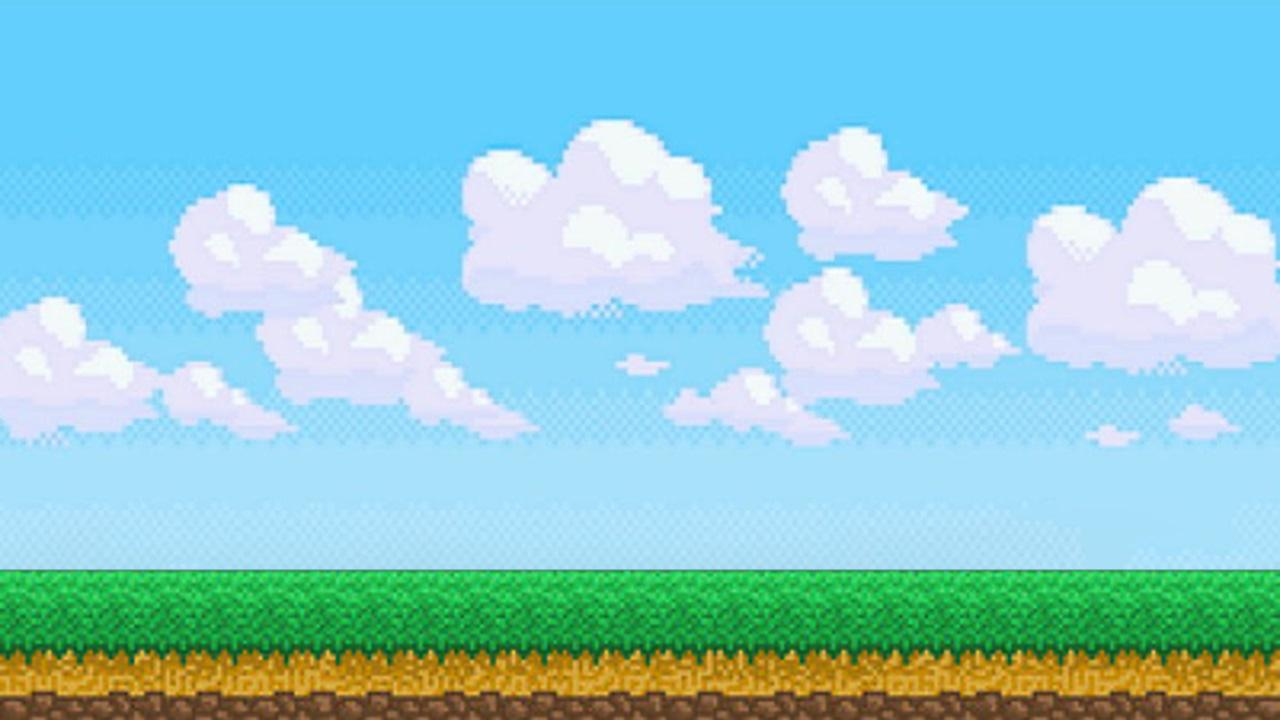
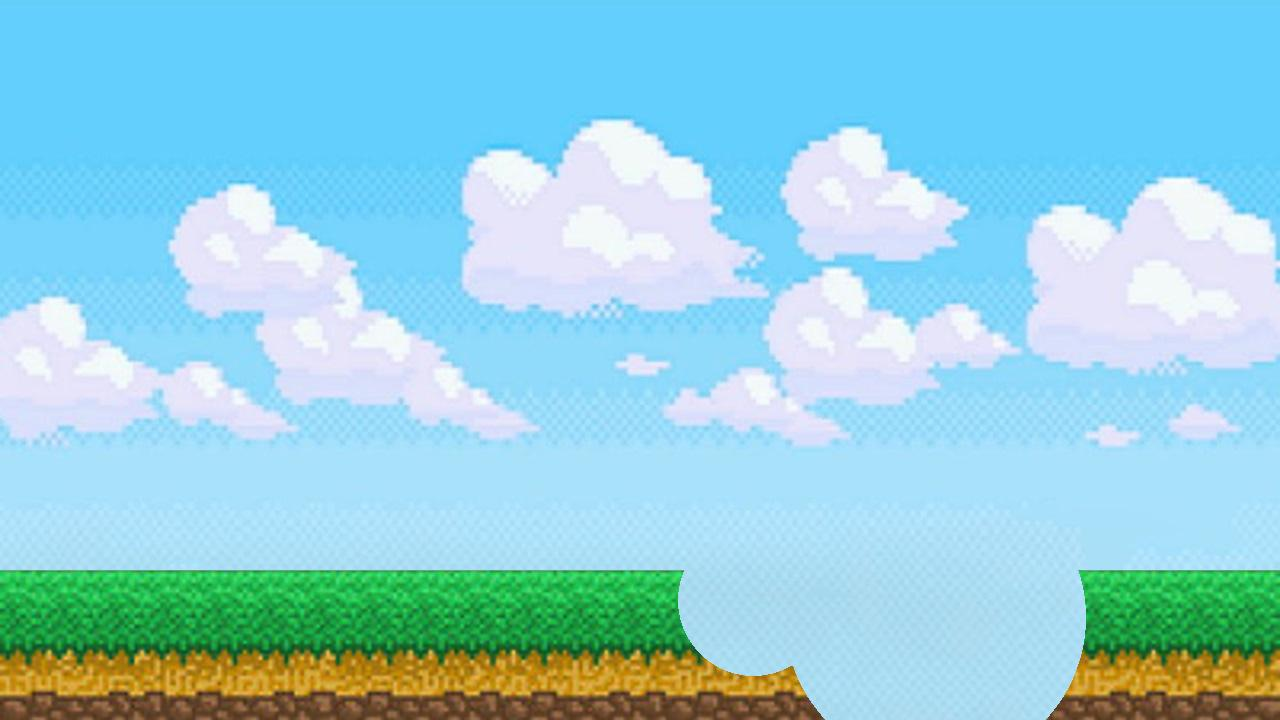
UPDATE : destruction map sans collision avec les worms

Changed region(s): [[0.5312, 0.7639, 0.875, 1.0]]

diff --git a/worm.py b/worm.py
@@ -1,8 +1,8 @@
 import pygame
 import constant_dispenser
 
-#groundForMask = pygame.image.load("assets/ground-actual.png")
-#groundMask = pygame.mask.from_surface(groundForMask)
+groundForMask = pygame.image.load("assets/ground-actual.png")
+groundMask = pygame.mask.from_surface(groundForMask, 1)
 
 class Worm(pygame.sprite.Sprite):
     def __init__(self, game, name, x, y, scale, speed, color):
@@ -68,6 +68,15 @@ class Worm(pygame.sprite.Sprite):
 
         self.dy += self.vel_y
 
+
+        #isCollision = self.wormCollisionWithGround(groundMask)
+        #if isCollision != None:
+            #self.dx = 0
+            #self.rect.bottom = isCollision[0]
+            #self.dy = 0
+            #self.in_air = False
+
+        # Collision avec le sol
         if self.rect.bottom + self.dy > 600:
             self.dy = 600 - self.rect.bottom
             self.in_air = False
@@ -100,8 +109,7 @@ class Worm(pygame.sprite.Sprite):
                 self.in_air = False
 
     def wormCollisionWithGround(self, mask, x=0, y=0):
-        worm_mask = pygame.mask.from_surface(self.img)
-        offset = (int(x - self.rect.x), int(y - self.rect.y))
+        worm_mask = pygame.mask.from_surface(self.img, 1)
+        offset = (int(self.rect.x - x), int(self.rect.y - y))
         collision = mask.overlap(worm_mask, offset)
-        #print(collision)
         return collision

diff --git a/environment.py b/environment.py
@@ -1,7 +1,7 @@
 import pygame
 from PIL import Image, ImageDraw
 
-class Evironment():
+class Environment():
     def __init__(self, groundPath, backgroundPath):
         self.ground = Image.open(groundPath).convert("RGBA")
         self.background = Image.open(backgroundPath).convert("RGBA")
@@ -26,9 +26,3 @@ class Evironment():
         self.updateBackgroundFusion(self.background, self.actualGround)
         self.saveBackground()
         self.pygameBackground = pygame.image.load("assets/background_show.jpg")
-
-    #def collision(self, player):
-        #coords = self.actualGround.getpixel((player.worm1.rect.x,player.worm1.rect.y))
-        #print(coords)
-        #if(player.worm1.rect.y + 30 >= coords[1] and coords == (0, 0, 0, 0)):
-            #player.worm1.rect.y = coords[1]

diff --git a/projectile.py b/projectile.py
@@ -68,10 +68,10 @@ class Grenade(pygame.sprite.Sprite):
         if self.timer <= 0:
             self.kill()
             explosion = Explosion(self.rect.x, self.rect.y, 2, self.game)
-            explosion.degats(self.game.player1.worm1, 0.1, 4, self.game)
-            explosion.degats(self.game.player2.worm1, 0.1, 4, self.game)
+            explosion.degats(self.game.player1.worm1, 0.1, 4, self.game, 100)
+            explosion.degats(self.game.player2.worm1, 0.1, 4, self.game, 100)
             for e in self.game.box_group:
-                explosion.degats(e, 0.1, 4, self.game)
+                explosion.degats(e, 0.1, 4, self.game, 100)
 
         self.t += .05
 

diff --git a/explosion.py b/explosion.py
@@ -35,11 +35,11 @@ class Explosion(pygame.sprite.Sprite):
             else:
                 self.image = self.images[self.img_index]
 
-    def degats(self, element, h_courbe_ecart, l_courbe_ecart, game):
+    def degats(self, element, h_courbe_ecart, l_courbe_ecart, game, taille):
         g_center = (self.rect.center[0], self.rect.center[1])
         w_center = (element.rect.centerx, element.rect.centery)
 
-        game.environment.destruction(g_center, 100)
+        game.environment.destruction(g_center, taille)
         #print(self.rect.center[0], self.rect.center[1])
         #print(worm.rect.centerx, worm.rect.centery)
 

diff --git a/main.py b/main.py
@@ -27,9 +27,6 @@ worm_group = game.worm_group
 
 box = Box(900, 580, game)
 
-groundForMask = pygame.image.load("assets/ground-actual.png")
-groundMask = pygame.mask.from_surface(groundForMask)
-
 # Actions
 moving_right_1 = False
 moving_left_1 = False
@@ -64,9 +61,7 @@ while running:
     box_group.draw(screen)
 
     # détecion de collision avec le sol
-
-    if game.player1.worm1.wormCollisionWithGround(groundMask) != None:
-        print("collide")
+    # game.environment.collision(game.player1)
 
     # Aide visée
     if(actualWormPlayer == tab_worms[0] and not single_shoot):

diff --git a/game.py b/game.py
@@ -1,12 +1,12 @@
 import pygame
 import math
 from player import Player
-from environment import Evironment
+from environment import Environment
 
 class Game:
     def __init__(self):
         self.GRAVITY = 9.81
-        self.environment = Evironment("assets/ground.png", "assets/background.png")
+        self.environment = Environment("assets/ground.png", "assets/background.png")
         self.grenade_group = pygame.sprite.Group()
         self.box_group = pygame.sprite.Group()
         self.explosion_group = pygame.sprite.Group()

diff --git a/box.py b/box.py
@@ -23,5 +23,5 @@ class Box(pygame.sprite.Sprite):
 
     def explosion(self):
         explosion = Explosion(self.rect.x, self.rect.y, 2, self.game)
-        explosion.degats(self.game.player1.worm1, 0.075, 6, self.game)
-        explosion.degats(self.game.player2.worm1, 0.075, 6, self.game)
+        explosion.degats(self.game.player1.worm1, 0.075, 6, self.game, 200)
+        explosion.degats(self.game.player2.worm1, 0.075, 6, self.game, 200)

diff --git a/README.md b/README.md
@@ -1,1 +1,4 @@
 # pygame-worms
+
+Pour avoir la bibliothèque PIL, suivre ce lien :
+https://pillow.readthedocs.io/en/stable/installation.html#basic-installation
